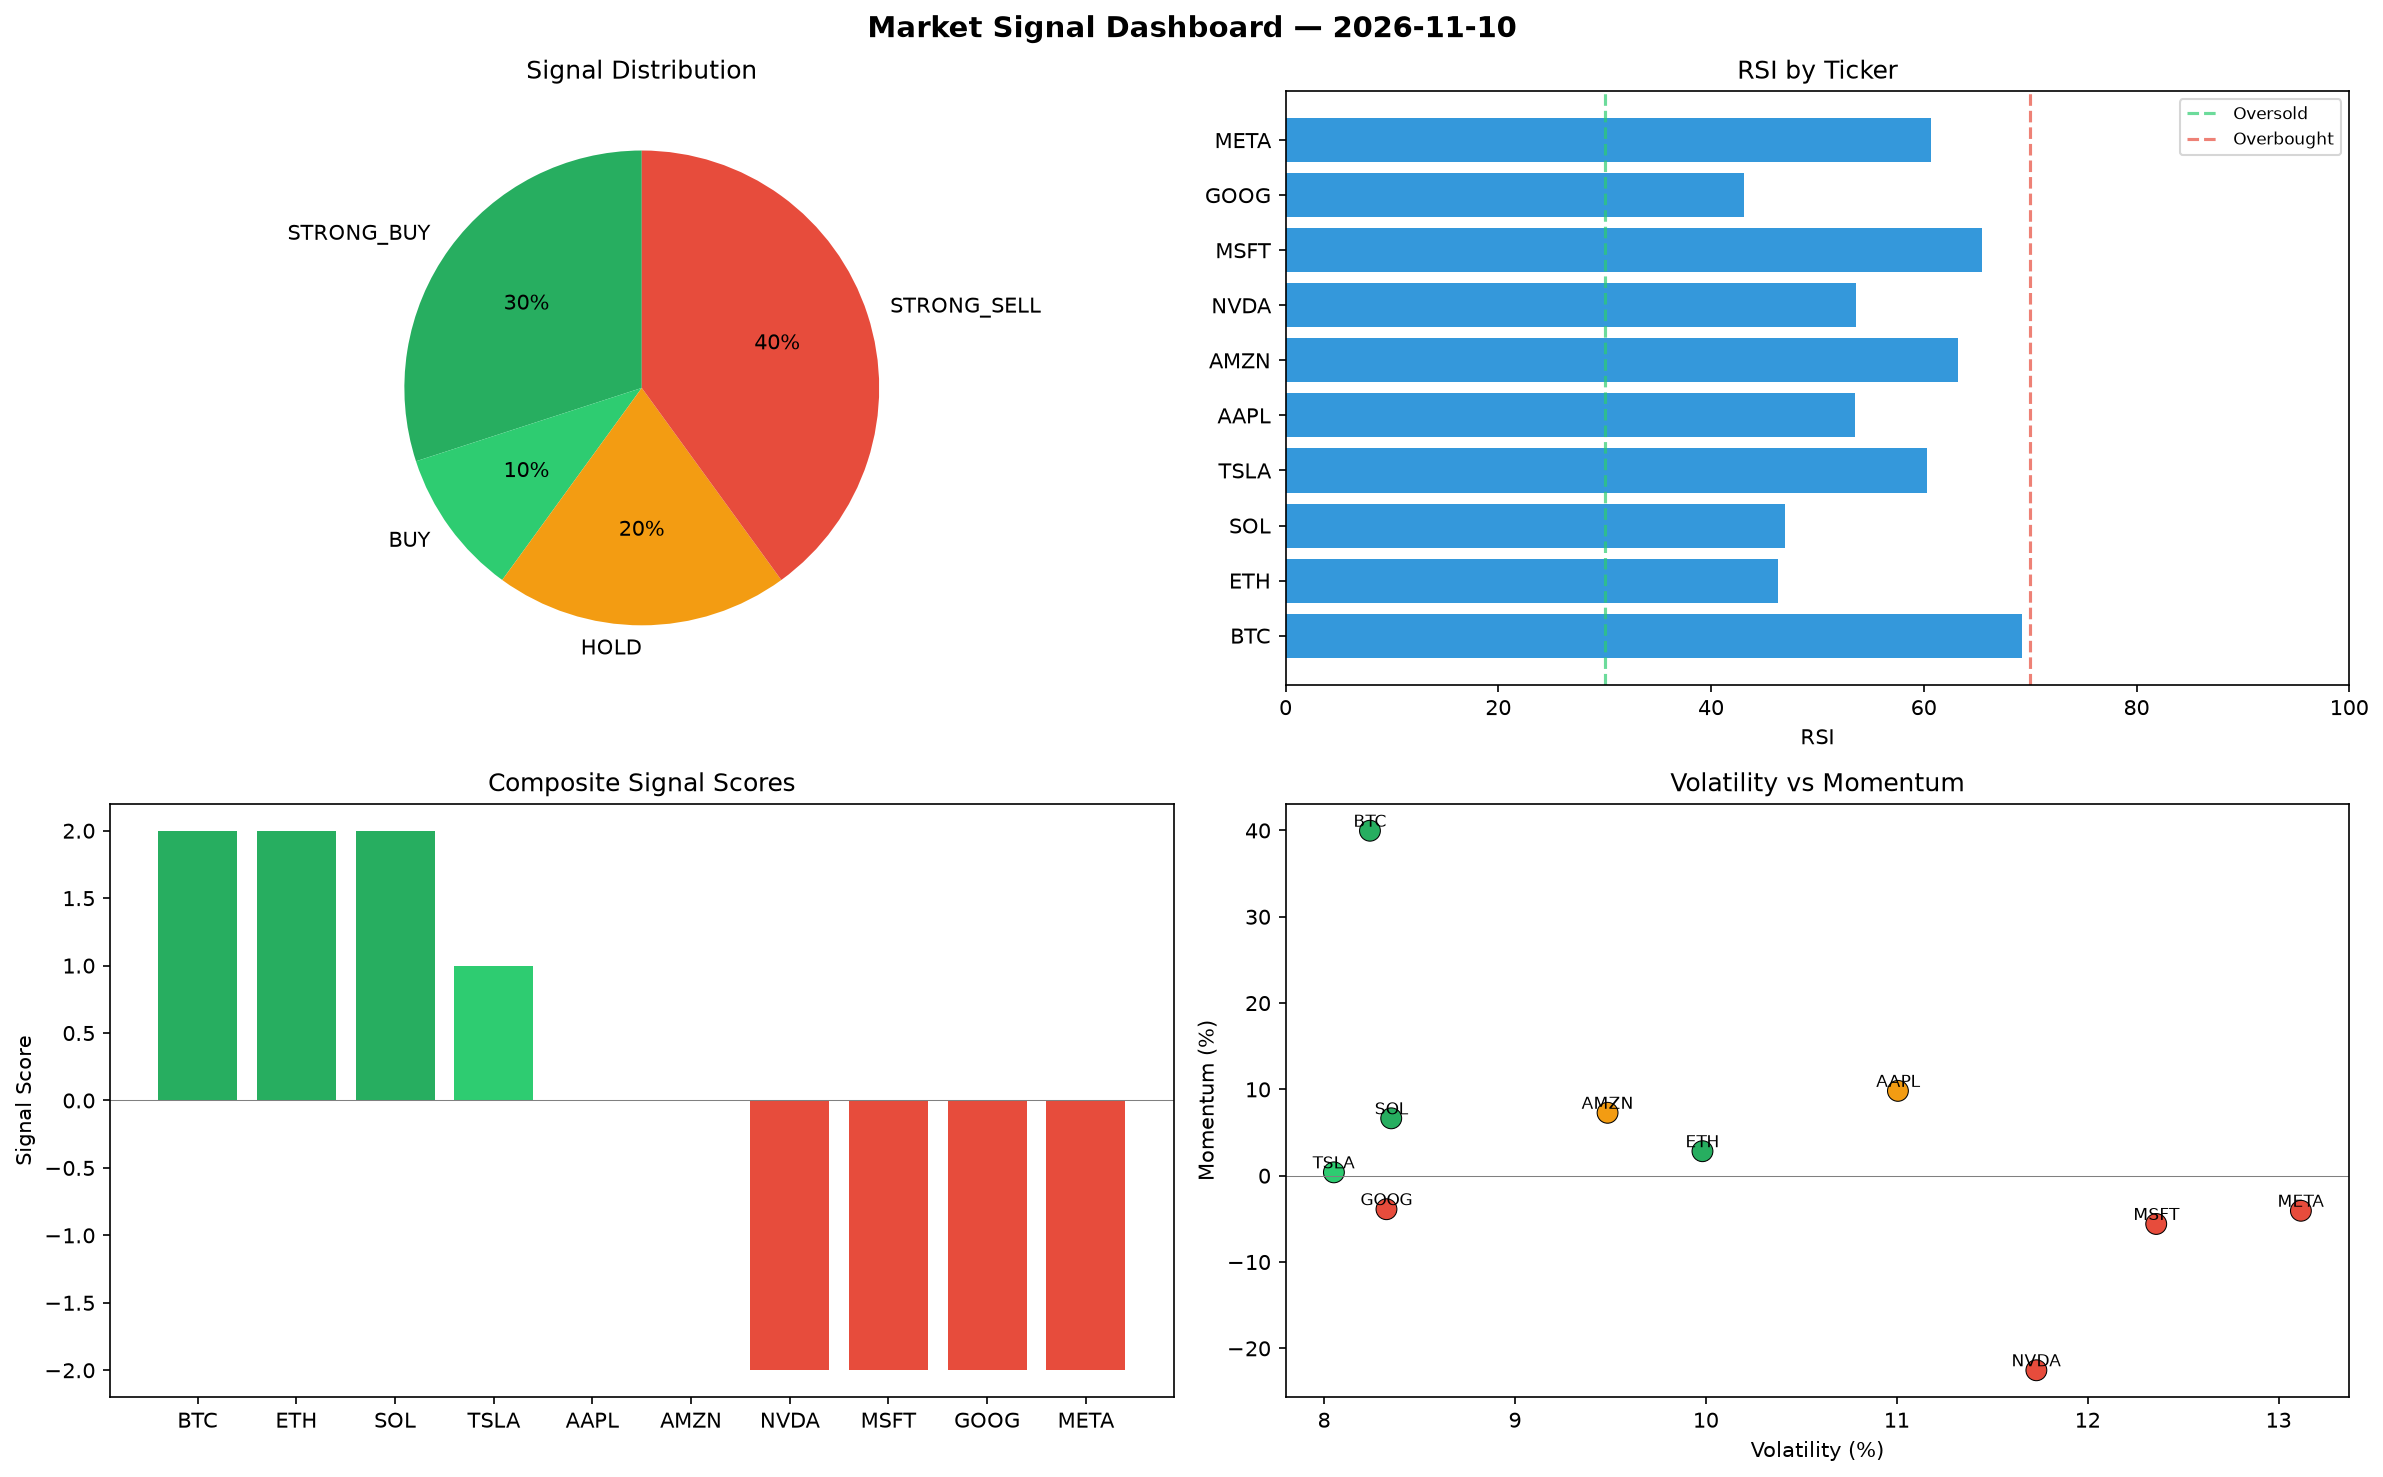
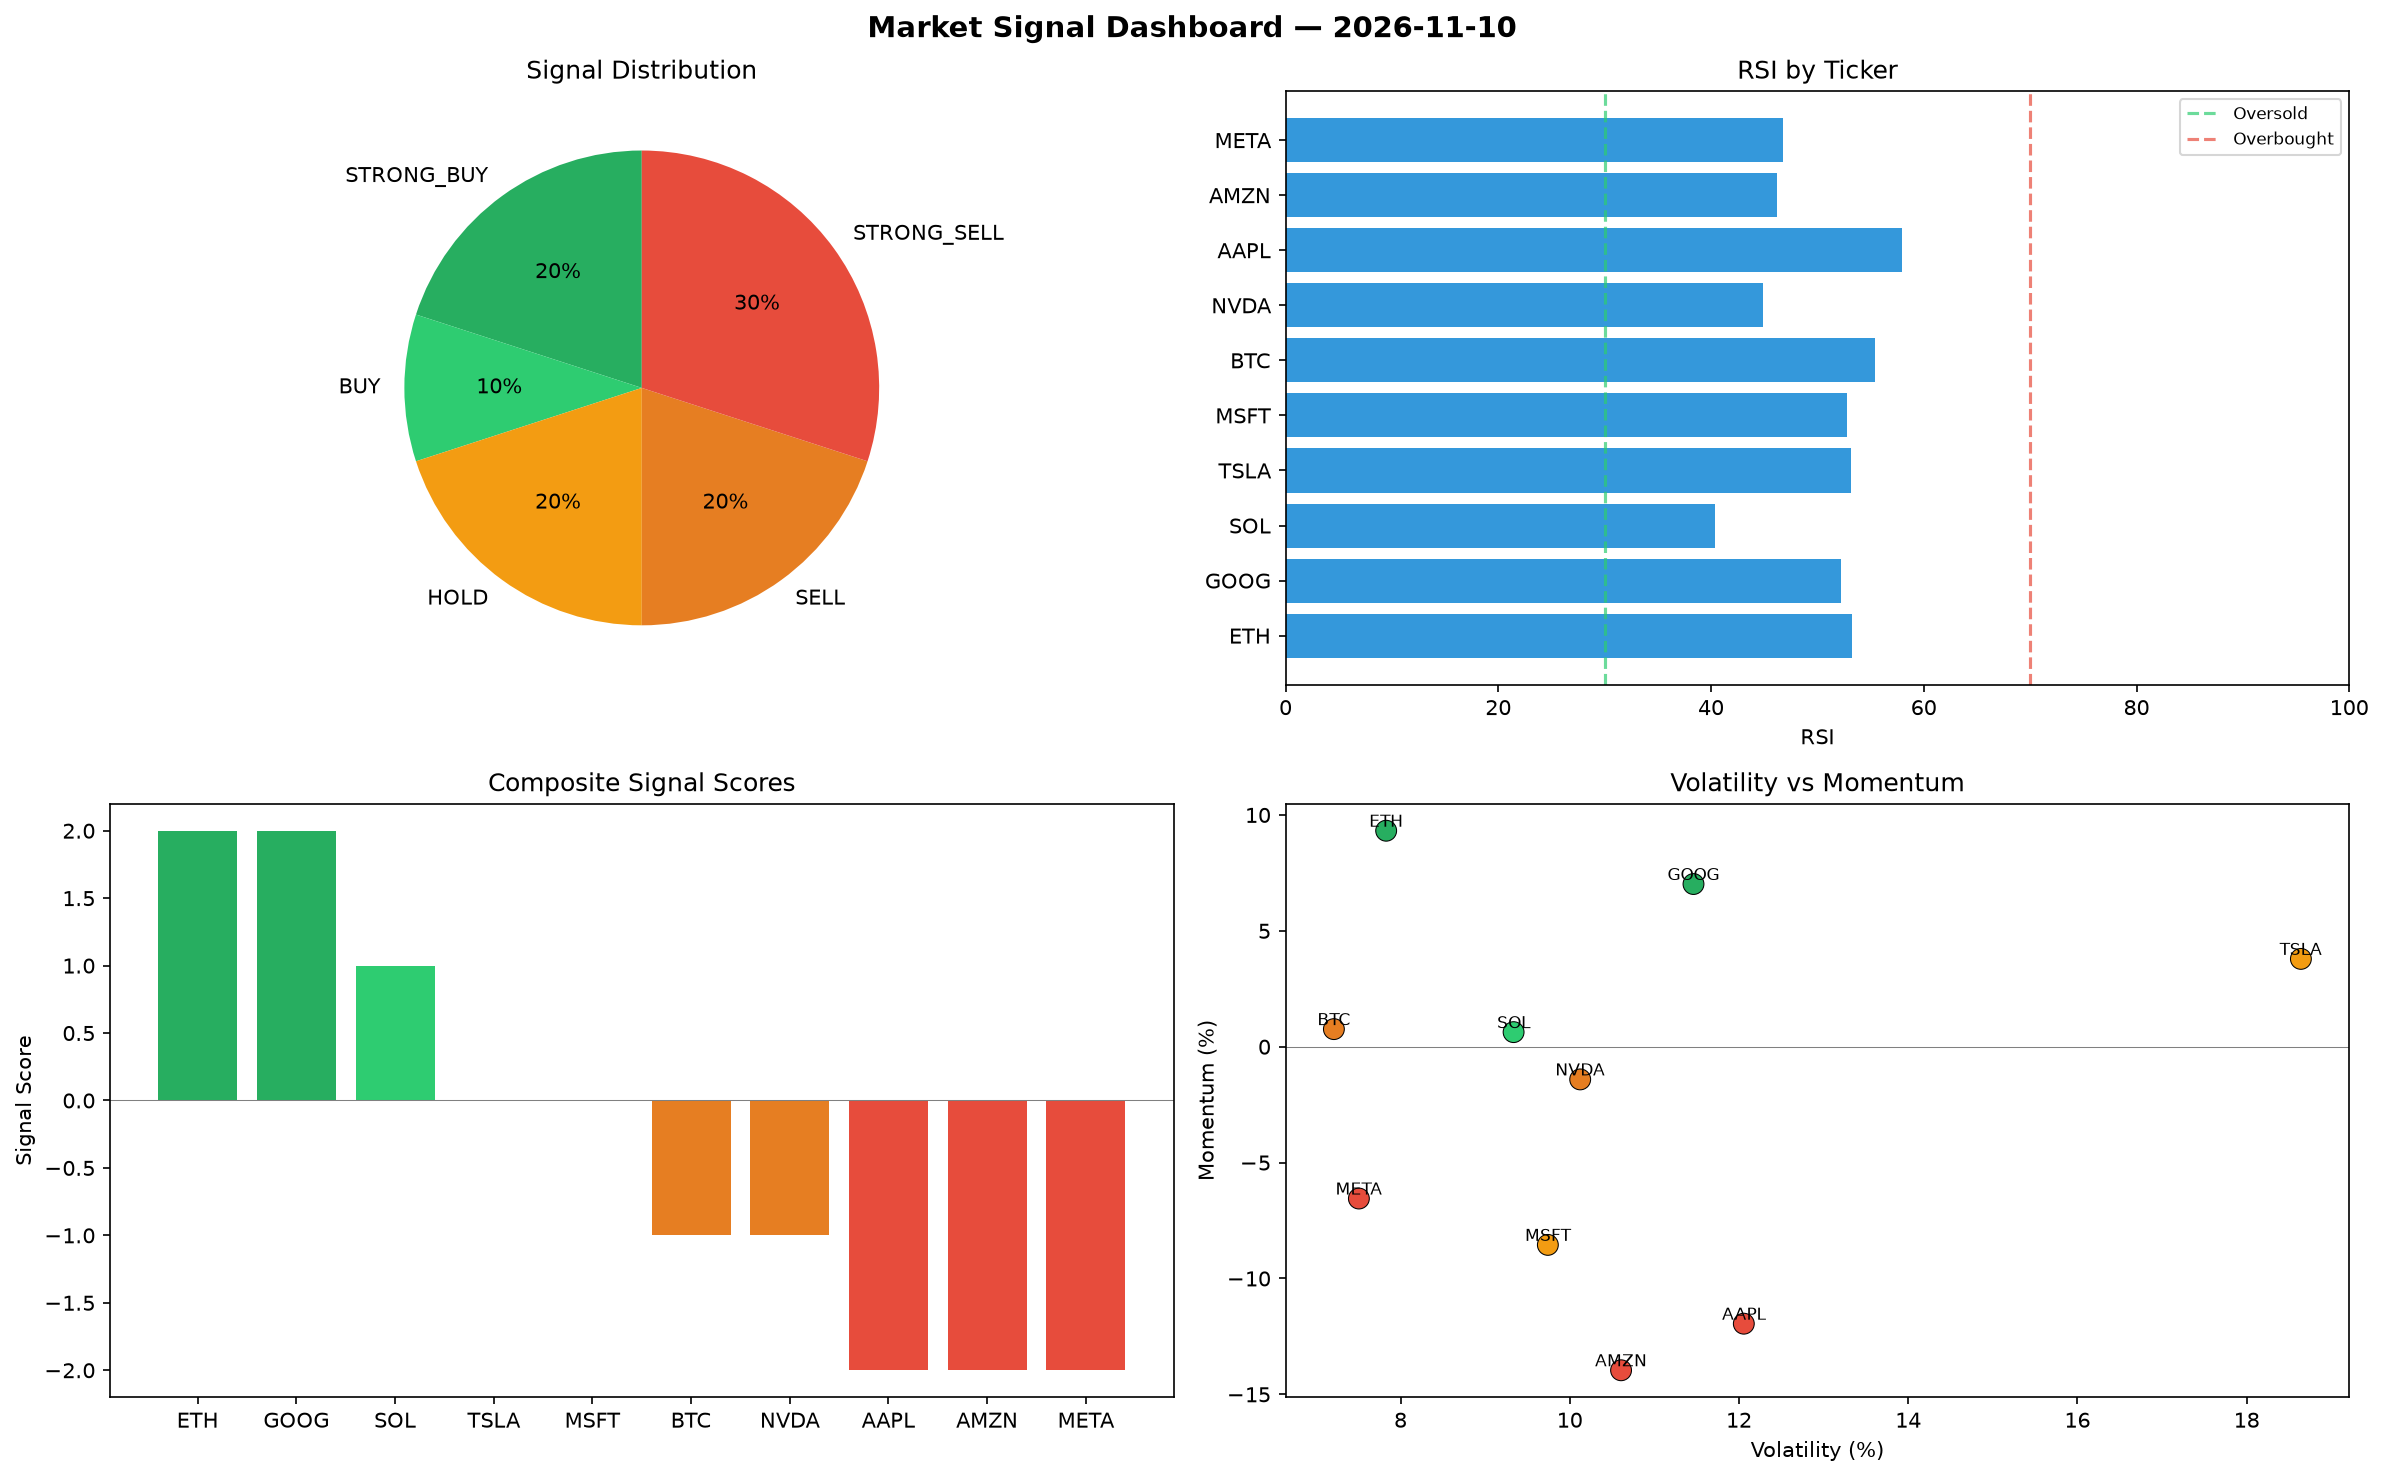
automated-bots: market signals 2026-11-10T10:11

diff --git a/logs/2026-11-10.md b/logs/2026-11-10.md
@@ -1,6 +1,6 @@
 # Market Signal Report — 2026-11-10
 
-**Run ID:** `489c6901ed` | **Buy:** 4 | **Sell:** 4 | **Hold:** 2
+**Run ID:** `85c862d39f` | **Buy:** 3 | **Sell:** 5 | **Hold:** 2
 
 ![Dashboard](2026-11-10_dashboard.png)
 
@@ -8,28 +8,28 @@
 
 | Ticker | Price | Signal | Score | RSI | Momentum | Confidence |
 |--------|-------|--------|-------|-----|----------|------------|
-| BTC | $3303.94 | **STRONG_BUY** | 2 | 69.25 | 0.3997 | 0.5 |
-| ETH | $659.46 | **STRONG_BUY** | 2 | 46.34 | 0.0284 | 0.5 |
-| SOL | $3037.79 | **STRONG_BUY** | 2 | 46.95 | 0.0665 | 0.5 |
-| TSLA | $1848.19 | **BUY** | 1 | 60.29 | 0.0039 | 0.25 |
-| AAPL | $2153.87 | **HOLD** | 0 | 53.54 | 0.0983 | 0.0 |
-| AMZN | $4611.26 | **HOLD** | 0 | 63.26 | 0.0729 | 0.0 |
-| NVDA | $2660.96 | **STRONG_SELL** | -2 | 53.59 | -0.2254 | 0.5 |
-| MSFT | $3924.5 | **STRONG_SELL** | -2 | 65.47 | -0.0559 | 0.5 |
-| GOOG | $3659.63 | **STRONG_SELL** | -2 | 43.13 | -0.0388 | 0.5 |
-| META | $265.37 | **STRONG_SELL** | -2 | 60.64 | -0.0406 | 0.5 |
+| ETH | $176.16 | **STRONG_BUY** | 2 | 53.26 | 0.0932 | 0.5 |
+| GOOG | $1159.82 | **STRONG_BUY** | 2 | 52.2 | 0.0702 | 0.5 |
+| SOL | $231.97 | **BUY** | 1 | 40.35 | 0.0063 | 0.25 |
+| TSLA | $106.0 | **HOLD** | 0 | 53.19 | 0.0379 | 0.0 |
+| MSFT | $3364.56 | **HOLD** | 0 | 52.75 | -0.0855 | 0.0 |
+| BTC | $3390.35 | **SELL** | -1 | 55.39 | 0.0076 | 0.25 |
+| NVDA | $3441.7 | **SELL** | -1 | 44.93 | -0.0141 | 0.25 |
+| AAPL | $911.71 | **STRONG_SELL** | -2 | 57.95 | -0.1195 | 0.5 |
+| AMZN | $2090.85 | **STRONG_SELL** | -2 | 46.18 | -0.1396 | 0.5 |
+| META | $4142.81 | **STRONG_SELL** | -2 | 46.77 | -0.0655 | 0.5 |
 
 ## Delta vs Yesterday
 
 | Ticker | Today | Yesterday | Price Change | Signal Changed |
 |--------|-------|-----------|-------------|----------------|
-| BTC | STRONG_BUY | STRONG_BUY | 📉 -20.09% | — |
-| ETH | STRONG_BUY | STRONG_BUY | 📉 -72.24% | — |
-| SOL | STRONG_BUY | STRONG_SELL | 📈 1298.42% | ⚠ YES |
-| TSLA | BUY | STRONG_BUY | 📈 272.29% | ⚠ YES |
-| AAPL | HOLD | STRONG_SELL | 📉 -27.67% | ⚠ YES |
-| AMZN | HOLD | SELL | 📈 198.64% | ⚠ YES |
-| NVDA | STRONG_SELL | STRONG_BUY | 📈 198.27% | ⚠ YES |
-| MSFT | STRONG_SELL | BUY | 📈 156.69% | ⚠ YES |
-| GOOG | STRONG_SELL | STRONG_SELL | 📈 170.34% | — |
-| META | STRONG_SELL | STRONG_SELL | 📉 -88.5% | — |
+| ETH | STRONG_BUY | STRONG_BUY | 📉 -92.58% | — |
+| GOOG | STRONG_BUY | STRONG_SELL | 📉 -14.32% | ⚠ YES |
+| SOL | BUY | STRONG_SELL | 📈 6.79% | ⚠ YES |
+| TSLA | HOLD | STRONG_BUY | 📉 -78.65% | ⚠ YES |
+| MSFT | HOLD | BUY | 📈 120.06% | ⚠ YES |
+| BTC | SELL | STRONG_BUY | 📉 -18.0% | ⚠ YES |
+| NVDA | SELL | STRONG_BUY | 📈 285.78% | ⚠ YES |
+| AAPL | STRONG_SELL | STRONG_SELL | 📉 -69.38% | — |
+| AMZN | STRONG_SELL | SELL | 📈 35.41% | ⚠ YES |
+| META | STRONG_SELL | STRONG_SELL | 📈 79.54% | — |
